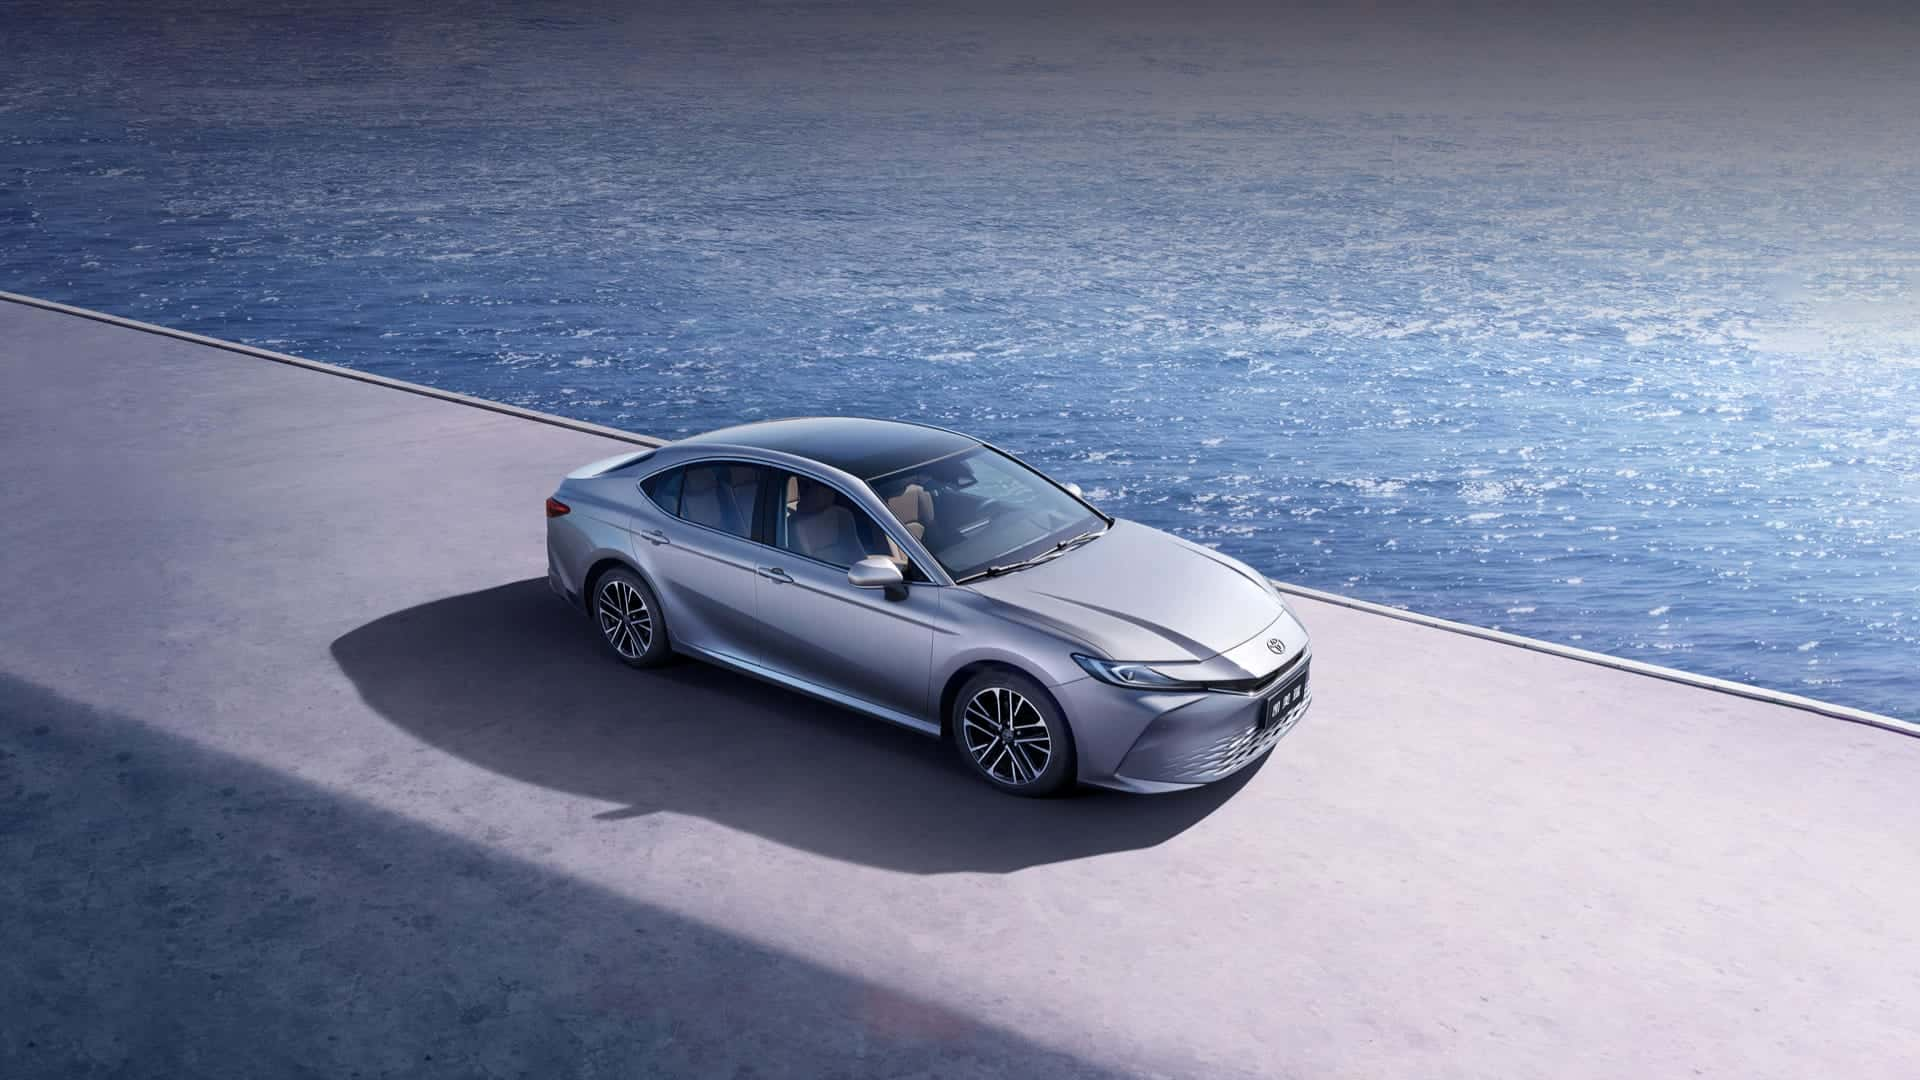
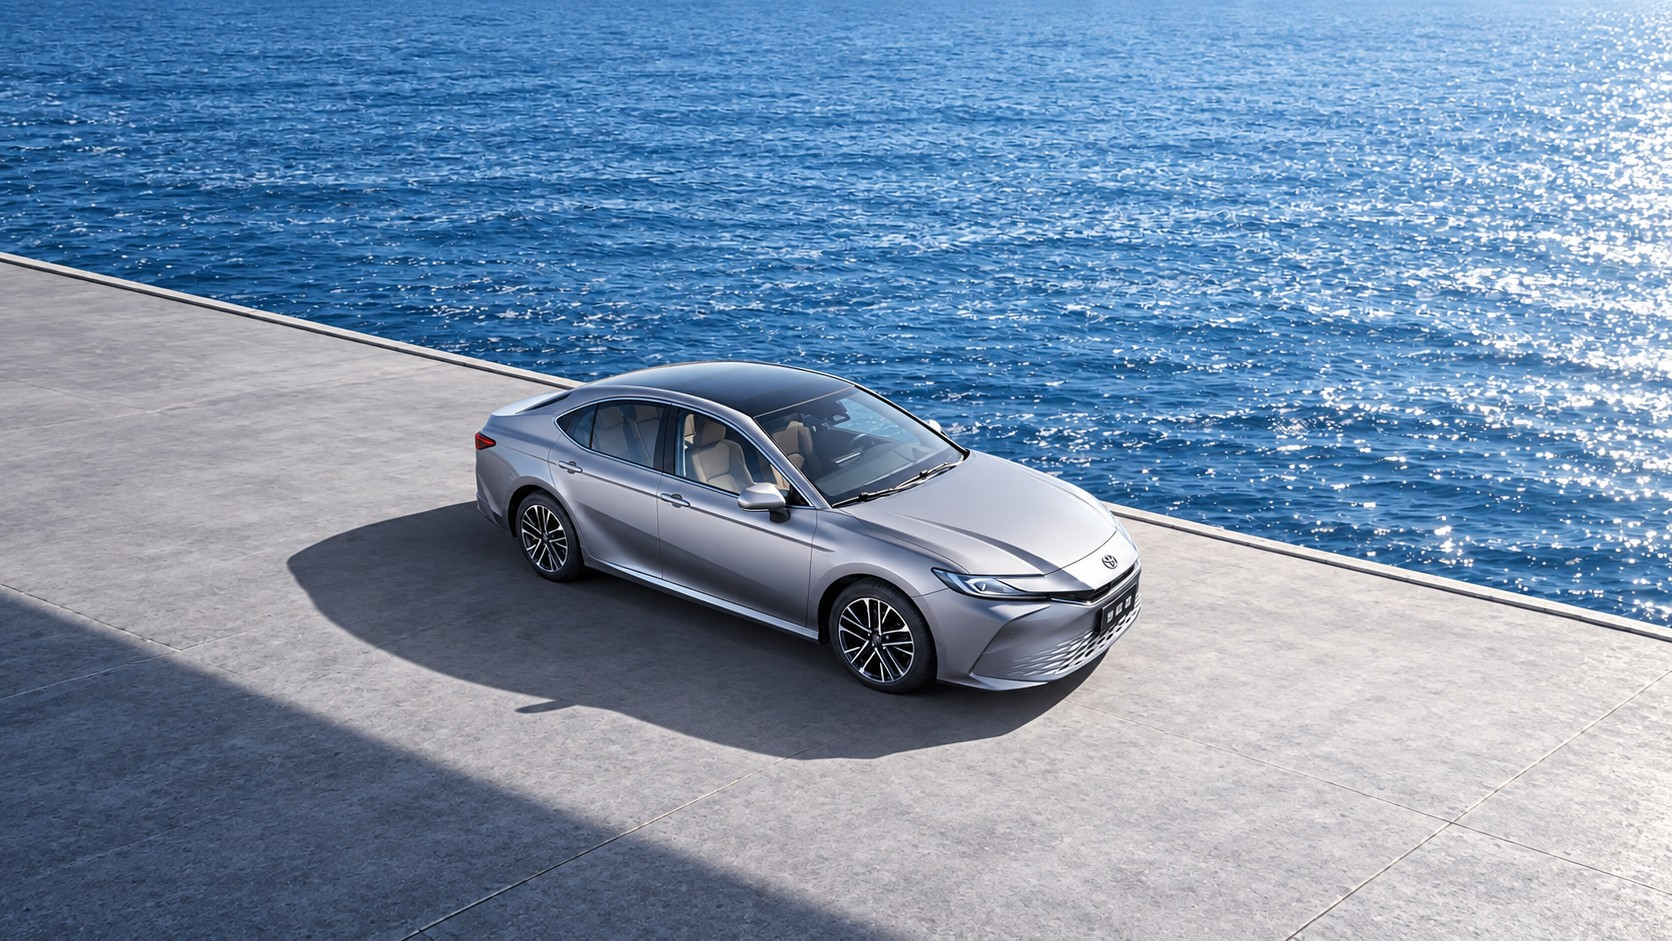
Camry: 14 новых фото в улучшенном качестве вместо старых
- Все фото Camry заменены на улучшенные версии 1672 px; маленькие (785 и 702 px) ушли
- Возвращена карточка «Всё на одном экране» — теперь есть чёткое фото интерфейса
- Глава «Обновление 2027» — фото руля и экрана; дублирующая карточка «Цифровые приборы» убрана
- Кадр «сзади» обрезан без руки с телефоном; удалено неиспользуемое detail.jpg

diff --git a/src/data/models/toyota-camry.ts b/src/data/models/toyota-camry.ts
@@ -1,11 +1,10 @@
 import type { CarModel } from '../types';
 
-// Фото — официальные материалы GAC Toyota (gac-toyota.com.cn), 1920 px, ВРЕМЕННО для прототипа.
-// TODO: до запуска заменить на свои фото (особенно задний ряд — официального фото в хорошем качестве нет).
+// Фото — официальные материалы GAC Toyota (gac-toyota.com.cn) в улучшенном качестве, 1672 px, ВРЕМЕННО для прототипа.
+// TODO: до запуска заменить на свои фото.
 import hero from '../../assets/camry/hero.jpg';
 import side from '../../assets/camry/side.jpg';
 import rear from '../../assets/camry/rear.jpg';
-import detail from '../../assets/camry/detail.jpg';
 import cabin from '../../assets/camry/interior-cabin.jpg';
 import lineup from '../../assets/camry/lineup.jpg';
 import optics from '../../assets/camry/optics.jpg';
@@ -16,6 +15,7 @@ import ambient from '../../assets/camry/ambient.jpg';
 import frontSeats from '../../assets/camry/front-seats.jpg';
 import wireless from '../../assets/camry/wireless.jpg';
 import rearSeats from '../../assets/camry/rear-seats.jpg';
+import multimedia from '../../assets/camry/multimedia.jpg';
 
 // «Camry 85» на рынке — обновлённая китайская GAC Toyota Camry 2027 модельного года (рестайлинг 9-го поколения, XV80).
 // TODO: уточнить у «Парк Авто», продают ли они именно рестайлинг (экран 15,6″) или дорестайлинг «80».
@@ -69,7 +69,7 @@ const model: CarModel = {
       size: 'wide',
       title: 'Экран 15,6″ в каждой версии',
       text: 'Чип Snapdragon 8155P, цифровые приборы 8,8″ и подключение смартфона через CarPlay и HiCar.',
-      photo: { src: dashboard, alt: 'Передняя панель Toyota Camry с экраном 15,6 дюйма', shot: 'Панель и экран', focus: '60% 50%' },
+      photo: { src: dashboard, alt: 'Передняя панель Toyota Camry с экраном 15,6 дюйма', shot: 'Панель и экран', focus: '45% 55%' },
     },
     {
       title: 'Беспроводная зарядка 50 Вт',
@@ -84,7 +84,7 @@ const model: CarModel = {
     {
       title: 'Комфорт на заднем ряду',
       text: 'Подогрев, вентиляция и электроприводы спинок задних кресел — в гибридах HG и выше.',
-      photo: { src: rearSeats, alt: 'Задние сиденья Toyota Camry с подогревом и вентиляцией', shot: 'Задние сиденья', focus: '45% 50%' },
+      photo: { src: rearSeats, alt: 'Задние сиденья Toyota Camry с подогревом и вентиляцией', shot: 'Задние сиденья', focus: '50% 55%' },
     },
     {
       title: 'Подсветка на 64 цвета',
@@ -94,7 +94,7 @@ const model: CarModel = {
     {
       title: 'Место водителя',
       text: 'Проекция на лобовое стекло, кресло с электроприводом и памятью, система контроля внимания водителя.',
-      photo: { src: driver, alt: 'Водитель за рулём Toyota Camry', shot: 'Место водителя', focus: '35% 40%' },
+      photo: { src: driver, alt: 'Водитель за рулём Toyota Camry', shot: 'Место водителя', focus: '45% 40%' },
     },
     {
       size: 'wide',
@@ -109,9 +109,9 @@ const model: CarModel = {
     },
     {
       size: 'wide',
-      title: 'Цифровые приборы',
-      text: 'Приборная панель 8,8″ и экран мультимедиа образуют единую линию перед водителем.',
-      photo: { src: screen, alt: 'Цифровые приборы и экран Toyota Camry', shot: 'Приборы и экран', focus: '55% 50%' },
+      title: 'Всё на одном экране',
+      text: 'Навигация, музыка и климат — крупными плитками, которыми удобно пользоваться на ходу.',
+      photo: { src: multimedia, alt: 'Интерфейс мультимедиа Toyota Camry', shot: 'Интерфейс мультимедиа', focus: '55% 45%' },
     },
   ],
 
@@ -120,19 +120,19 @@ const model: CarModel = {
       eyebrow: 'Дизайн',
       title: 'Длинная, низкая, узнаваемая',
       text: 'Длина 4915 мм и колёсная база 2825 мм. В версии Sport Plus — удлинённый бампер, спортивный обвес и диски R19.',
-      photo: { src: side, alt: 'Toyota Camry в движении у моря, вид сверху', shot: 'Экстерьер в движении', focus: '50% 62%' },
+      photo: { src: side, alt: 'Toyota Camry у моря, вид сверху', shot: 'Экстерьер у моря', focus: '62% 55%' },
     },
     {
       eyebrow: 'Гибрид',
       title: 'Экономия, которую видно на заправке',
       text: 'Гибрид Toyota пятого поколения: 197 л.с. и расход 4,2 литра на 100 км по WLTC. Заряжать не нужно, бензин — обычный АИ-92.',
-      photo: { src: rear, alt: 'Toyota Camry, вид сзади-сбоку', shot: 'Вид 3/4 сзади', focus: '55% 60%' },
+      photo: { src: rear, alt: 'Toyota Camry, вид сзади-сбоку', shot: 'Вид 3/4 сзади', focus: '80% 60%' },
     },
     {
       eyebrow: 'Обновление 2027',
       title: 'Экран 15,6″ в каждой версии',
       text: 'С обновлением все версии получили экран 15,6″ на чипе Snapdragon 8155P, цифровые приборы 8,8″ и беспроводную зарядку на 50 Вт.',
-      photo: { src: detail, alt: 'Экран 15,6 дюйма в салоне Toyota Camry', shot: 'Деталь: экран', focus: '62% 50%' },
+      photo: { src: screen, alt: 'Руль, цифровые приборы и экран 15,6 дюйма Toyota Camry', shot: 'Руль и экран', focus: '60% 50%' },
     },
   ],
 
@@ -150,7 +150,7 @@ const model: CarModel = {
     ],
   },
 
-  ctaPhoto: { src: side, alt: '', shot: 'Экстерьер', focus: '42% 62%' },
+  ctaPhoto: { src: side, alt: '', shot: 'Экстерьер', focus: '62% 55%' },
 
   tech: {
     title: 'Гибрид или бензин — на выбор',
